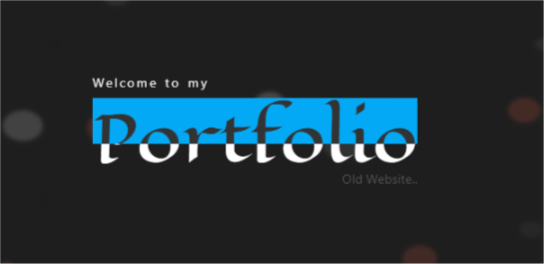
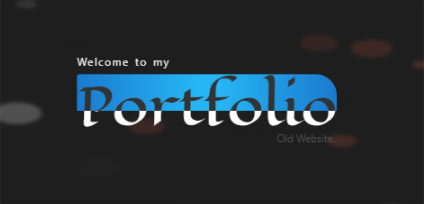
make the website more responsive

diff --git a/dist/main.css b/dist/main.css
@@ -264,6 +264,9 @@ body {
       position: relative;
       z-index: 8;
     }
+  #side-info .show-side{
+    display: none
+  }    
       #side-info .info .contact li a:before {
         content: '';
         width:104%;
@@ -360,7 +363,39 @@ body {
     transform: scale(0.8)
   }
   #side-info {
-    display: none;
+    position: absolute;
+    left: -100%;
+    transition: left 0.25s cubic-bezier(0.445, 0.05, 0.55, 0.95);
+  }
+  #side-info .show-side{
+    display: block;
+    position: fixed;
+    width: 200px;
+    text-align: left;
+    top: 50%;
+    left: 0;
+    width:0;
+    height: 0 
+  }
+  #side-info .show-side:checked:before {
+    left: 225px
+  }
+  
+  #side-info .show-side:before{
+    content:"+";
+    color: #fff;
+    text-align: center;
+    line-height: 50px;
+    position: relative;
+    display: block;
+    width: 50px;
+    height: 50px;
+    font-size: 26px;
+    background-color: #03a9f4;
+    border-radius: 50%;
+    top:50%;
+    left: 0;
+    transition: left cubic-bezier(0.68, -0.55, 0.265, 1.55) 0.35s 0.1s
   }
   #work .row .project-col {
     display: inline-block;

diff --git a/index.html b/index.html
@@ -4,7 +4,7 @@
     <meta charset="utf-8">
     <meta name="viewport" content="width=device-width, initial-scale=1.0">
     <meta http-equiv="X-UA-Compatible" content="ie=edge">
-    <meta name="theme-color" content="#03a9f4">
+    <meta name="theme-color" content="#066074">
     <meta name="description" content="hosamsam portfolio website">
     <title>welcome@Hosam Portfolio Page</title>
     <link rel="icon" href="./logo.png">
@@ -23,6 +23,7 @@
                         <!--<h4>HSA</h4>-->
                         <!--&lt;!&ndash;<span class="toggle-side fa fa-chevron-circle-left"></span>&ndash;&gt;-->
                     <!--</div>-->
+                    <input id="l-side" class="show-side" type="checkbox">
                     <div class="avatar text-center">
                         <img src="./hosam.png" alt="avatar" width="80" height="80">
                         <h3 class="lead">Hosam Elnabawy</h3>

diff --git a/dist/main.js b/dist/main.js
@@ -8,6 +8,19 @@ if ('serviceWorker' in navigator) {
             console.warn('service worker is failed to register!', erdr)
         })
 }
+
+document.addEventListener('DOMContentLoaded', () => {
+    const showSide = document.getElementById('l-side')
+    const leftSide = document.getElementById('side-info')
+    showSide.addEventListener('click', event => {
+        let checked = event.target.checked
+        if (checked)
+            leftSide.style.left = 0
+        else
+            leftSide.style.left = '-100%'    
+    })
+    console.log('dom loaded');
+})
 /* web worker
 if (window && window.Worker) {
     let webWorker = new Worker('./ww.js')
